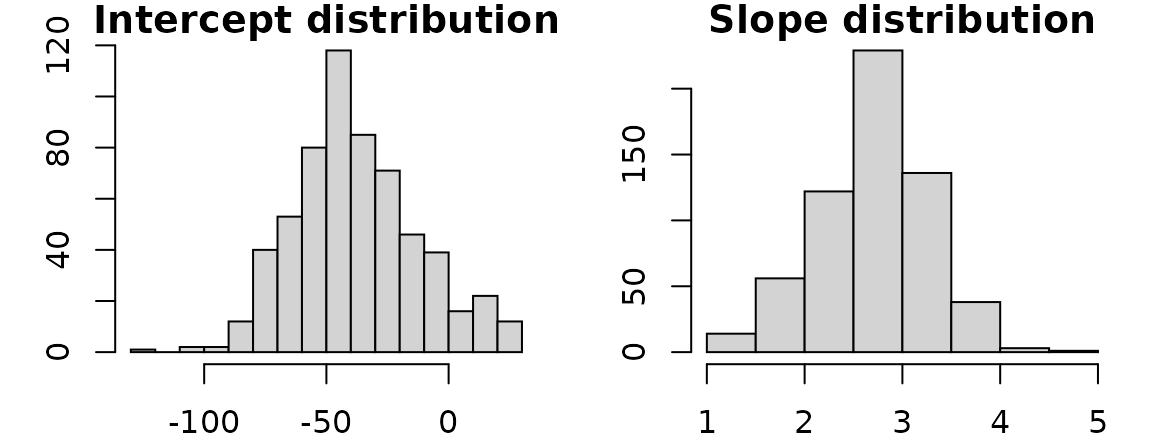
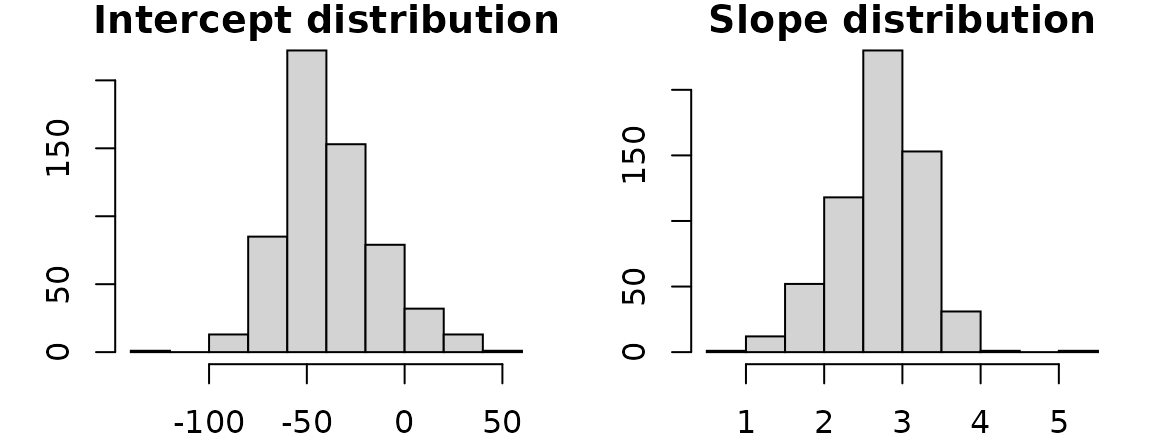
Built site for tukeyedar: 0.1.0@8900563

diff --git a/articles/RLine.html b/articles/RLine.html
@@ -85,7 +85,7 @@
       <h1 data-toc-skip>Resistant Line</h1>
                         <h4 class="author">Manuel Gimond</h4>
             
-            <h4 class="date">2021-10-28</h4>
+            <h4 class="date">2021-10-29</h4>
       
       <small class="dont-index">Source: <a href="https://github.com/mgimond/tukeyedar/blob/master/vignettes/RLine.Rmd"><code>vignettes/RLine.Rmd</code></a></small>
       <div class="hidden name"><code>RLine.Rmd</code></div>
@@ -284,8 +284,8 @@ median(y_{l,m,r} - b * x_{l,m,r})
                      Slope <span class="op">=</span> <span class="fu"><a href="https://rdrr.io/r/stats/quantile.html">quantile</a></span><span class="op">(</span><span class="va">bt</span><span class="op">[</span>,<span class="fl">2</span><span class="op">]</span>, p<span class="op">=</span><span class="fu"><a href="https://rdrr.io/r/base/c.html">c</a></span><span class="op">(</span><span class="fl">0.05</span>,<span class="fl">0.95</span><span class="op">)</span> <span class="op">)</span><span class="op">)</span><span class="op">)</span>
 <span class="va">conf</span>
 <span class="co">#&gt;                    5%      95%</span>
-<span class="co">#&gt;  Intercept -75.829609 10.31751</span>
-<span class="co">#&gt;  Slope       1.685849  3.56421</span></code></pre></div>
+<span class="co">#&gt;  Intercept -72.785156 8.255498</span>
+<span class="co">#&gt;  Slope       1.744406 3.511143</span></code></pre></div>
 </div>
 <div id="resampling-the-x-y-paired-values" class="section level3">
 <h3 class="hasAnchor">
@@ -311,8 +311,8 @@ median(y_{l,m,r} - b * x_{l,m,r})
                      Slope <span class="op">=</span> <span class="fu"><a href="https://rdrr.io/r/stats/quantile.html">quantile</a></span><span class="op">(</span><span class="va">bt</span><span class="op">[</span>,<span class="fl">2</span><span class="op">]</span>, p<span class="op">=</span><span class="fu"><a href="https://rdrr.io/r/base/c.html">c</a></span><span class="op">(</span><span class="fl">0.05</span>,<span class="fl">0.95</span><span class="op">)</span> <span class="op">)</span><span class="op">)</span><span class="op">)</span>
 <span class="va">conf</span>
 <span class="co">#&gt;                     5%       95%</span>
-<span class="co">#&gt;  Intercept -115.635466 10.910371</span>
-<span class="co">#&gt;  Slope        1.646617  4.338462</span></code></pre></div>
+<span class="co">#&gt;  Intercept -108.763246 15.031034</span>
+<span class="co">#&gt;  Slope        1.634146  4.180328</span></code></pre></div>
 </div>
 </div>
 <div id="references" class="section level1">

diff --git a/articles/Introduction.html b/articles/Introduction.html
@@ -85,7 +85,7 @@
       <h1 data-toc-skip>Introduction to EDA functions</h1>
                         <h4 class="author">Manuel Gimond</h4>
             
-            <h4 class="date">2021-10-28</h4>
+            <h4 class="date">2021-10-29</h4>
       
       <small class="dont-index">Source: <a href="https://github.com/mgimond/tukeyedar/blob/master/vignettes/Introduction.Rmd"><code>vignettes/Introduction.Rmd</code></a></small>
       <div class="hidden name"><code>Introduction.Rmd</code></div>
